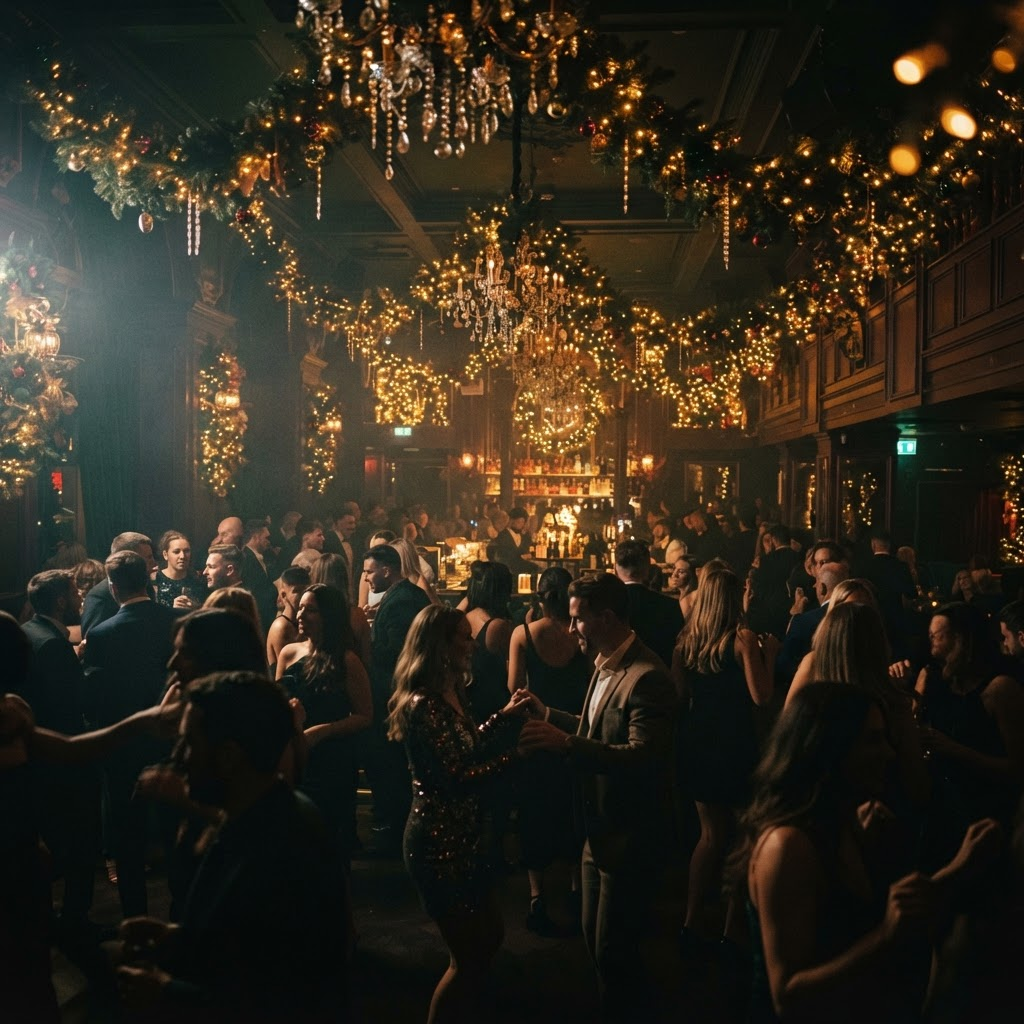
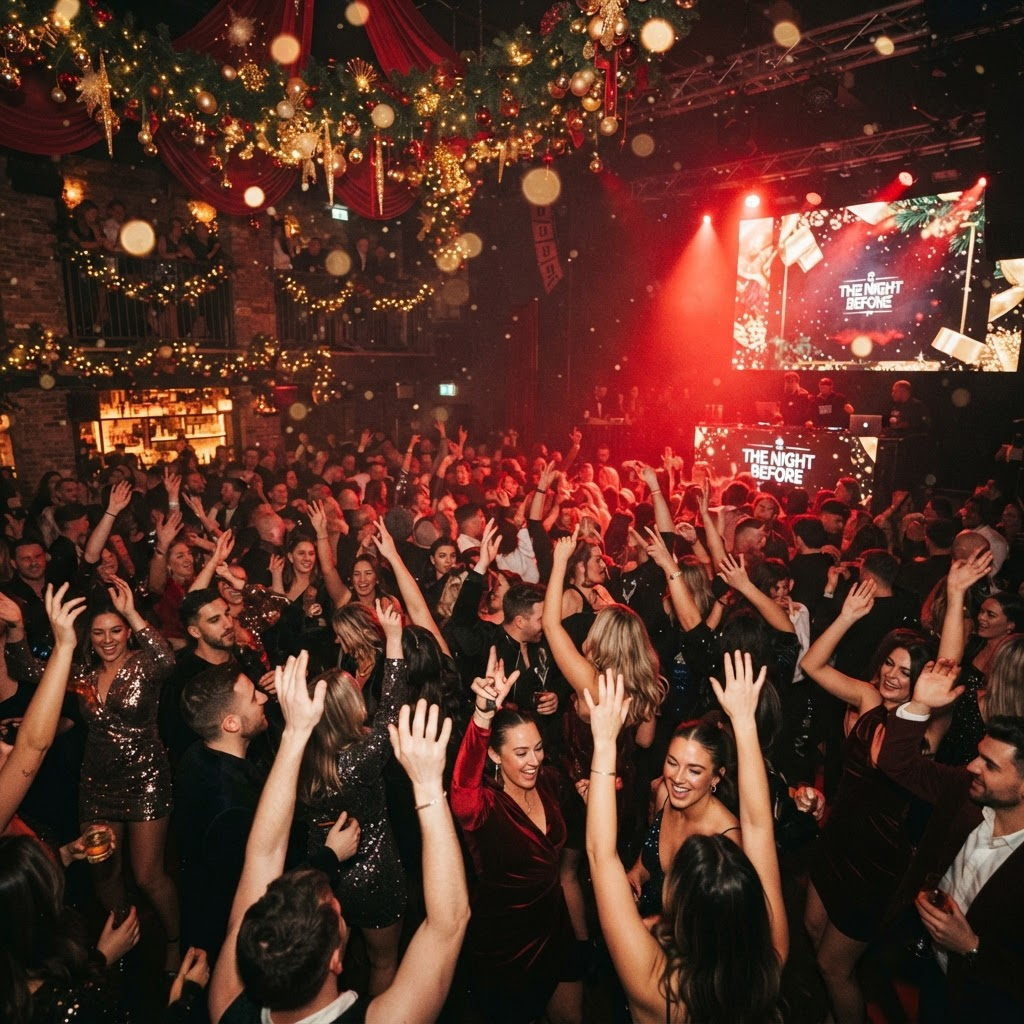
feat: add animated Christmas lights component and update hero section styling

diff --git a/components/hero-section.tsx b/components/hero-section.tsx
@@ -5,6 +5,7 @@ import Image from "next/image"
 import { motion, useScroll, useTransform } from "motion/react"
 import { Calendar, MapPin, Clock, ChevronDown, Ticket } from "lucide-react"
 import { EVENT } from "@/lib/event"
+import { ChristmasLights } from "@/components/christmas-lights"
 
 export function HeroSection() {
   const ref = useRef<HTMLElement>(null)
@@ -23,7 +24,7 @@ export function HeroSection() {
       ref={ref}
       className="relative flex min-h-[100svh] items-center justify-center overflow-hidden"
     >
-      <motion.div style={{ y: bgY }} className="absolute inset-0 -z-10 scale-110">
+      <motion.div style={{ y: bgY }} className="absolute inset-0 z-0 scale-110">
         <Image
           src="/images/hero.png"
           alt="Fiesta de Navidad FRIDHA con luces doradas"
@@ -32,13 +33,15 @@ export function HeroSection() {
           sizes="100vw"
           className="object-cover"
         />
-        <div className="absolute inset-0 bg-gradient-to-b from-background/70 via-background/50 to-background" />
-        <div className="absolute inset-0 bg-[radial-gradient(ellipse_at_center,transparent_10%,var(--background)_120%)]" />
+        <div className="absolute inset-0 bg-gradient-to-b from-background/25 via-transparent to-background" />
+        {/* Santa-red wash */}
+        <div className="absolute inset-0 bg-[radial-gradient(ellipse_at_50%_45%,oklch(0.5_0.2_25/0.4),transparent_70%)] mix-blend-screen" />
+        <div className="absolute inset-0 bg-[radial-gradient(ellipse_at_center,transparent_55%,var(--background)_140%)]" />
       </motion.div>
 
       <motion.div
         style={{ y: contentY, opacity: contentOpacity }}
-        className="mx-auto flex max-w-4xl flex-col items-center px-6 text-center"
+        className="relative z-10 mx-auto flex max-w-4xl flex-col items-center px-6 text-center"
       >
         <motion.span
           initial={{ opacity: 0, y: 16 }}
@@ -49,14 +52,29 @@ export function HeroSection() {
           {EVENT.tagline}
         </motion.span>
 
-        <motion.h1
+        <motion.div
           initial={{ opacity: 0, y: 24 }}
           animate={{ opacity: 1, y: 0 }}
           transition={{ duration: 0.8, delay: 0.1, ease: [0.22, 1, 0.36, 1] }}
-          className="text-gold-gradient font-display text-[22vw] leading-[0.82] tracking-tight sm:text-[16rem]"
+          className="relative"
         >
-          {EVENT.name}
-        </motion.h1>
+          {/* Top garland draped over the title */}
+          <ChristmasLights
+            count={12}
+            className="pointer-events-none absolute -top-6 left-1/2 h-16 w-[112%] -translate-x-1/2 sm:-top-8 sm:h-20"
+          />
+
+          <h1 className="text-gold-gradient font-display text-[22vw] leading-[0.82] tracking-tight drop-shadow-[0_0_35px_oklch(0.6_0.2_25/0.35)] sm:text-[16rem]">
+            {EVENT.name}
+          </h1>
+
+          {/* Bottom garland hanging under the title */}
+          <ChristmasLights
+            count={12}
+            flip
+            className="pointer-events-none absolute -bottom-8 left-1/2 h-16 w-[108%] -translate-x-1/2 sm:-bottom-10 sm:h-20"
+          />
+        </motion.div>
 
         <motion.p
           initial={{ opacity: 0, y: 20 }}

diff --git a/components/christmas-lights.tsx b/components/christmas-lights.tsx
@@ -1,0 +1,75 @@
+"use client"
+
+type Props = {
+  count?: number
+  className?: string
+  flip?: boolean
+}
+
+// A swagged string of Christmas bulbs drawn as SVG.
+// The wire dips between anchor points and a bulb hangs at each dip.
+const COLORS = [
+  "oklch(0.62 0.22 25)", // red
+  "oklch(0.82 0.15 86)", // gold
+  "oklch(0.55 0.13 150)", // green
+  "oklch(0.9 0.05 90)", // warm white
+]
+
+export function ChristmasLights({ count = 14, className, flip = false }: Props) {
+  const width = 1000
+  const height = 70
+  const step = width / count
+  const dip = 30
+
+  // Build a wavy wire path made of quadratic swags between anchors.
+  let d = `M 0 ${flip ? height - 8 : 8}`
+  for (let i = 0; i < count; i++) {
+    const x1 = i * step
+    const x2 = (i + 1) * step
+    const cx = (x1 + x2) / 2
+    const anchorY = flip ? height - 8 : 8
+    const dipY = flip ? height - 8 - dip : 8 + dip
+    d += ` Q ${cx} ${dipY} ${x2} ${anchorY}`
+  }
+
+  const bulbs = Array.from({ length: count }, (_, i) => {
+    const cx = i * step + step / 2
+    const cy = (flip ? height - 8 - dip : 8 + dip) + (flip ? -2 : 2)
+    const color = COLORS[i % COLORS.length]
+    return { cx, cy, color, delay: (i % 6) * 0.28 }
+  })
+
+  return (
+    <svg
+      viewBox={`0 0 ${width} ${height}`}
+      preserveAspectRatio="none"
+      className={className}
+      aria-hidden="true"
+    >
+      <path d={d} fill="none" stroke="oklch(0.4 0.03 150)" strokeWidth={2} />
+      {bulbs.map((b, i) => (
+        <g
+          key={i}
+          className="animate-bulb"
+          style={{ animationDelay: `${b.delay}s`, transformOrigin: `${b.cx}px ${b.cy}px` }}
+        >
+          {/* socket */}
+          <rect
+            x={b.cx - 2.5}
+            y={flip ? b.cy + 3 : b.cy - 9}
+            width={5}
+            height={7}
+            rx={1}
+            fill="oklch(0.35 0.02 150)"
+          />
+          {/* glow */}
+          <circle cx={b.cx} cy={b.cy} r={12} fill={b.color} opacity={0.28} />
+          {/* bulb */}
+          <circle cx={b.cx} cy={b.cy} r={5.5} fill={b.color} />
+          {/* highlight */}
+          <circle cx={b.cx - 1.6} cy={b.cy - 1.6} r={1.6} fill="oklch(1 0 0)" opacity={0.7} />
+        </g>
+      ))}
+    </svg>
+  )
+}

diff --git a/app/globals.css b/app/globals.css
@@ -191,3 +191,19 @@
     display: none;
   }
 }
+
+@keyframes bulb-twinkle {
+  0%,
+  100% {
+    opacity: 1;
+    filter: brightness(1.15);
+  }
+  50% {
+    opacity: 0.45;
+    filter: brightness(0.7);
+  }
+}
+
+.animate-bulb {
+  animation: bulb-twinkle 1.8s ease-in-out infinite;
+}
